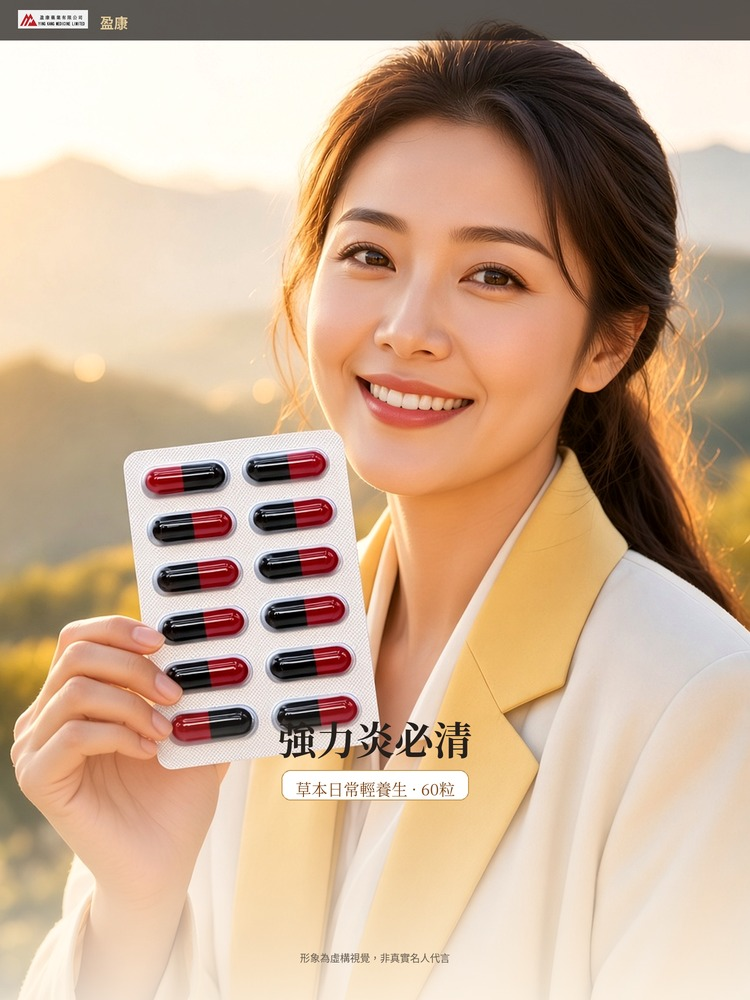
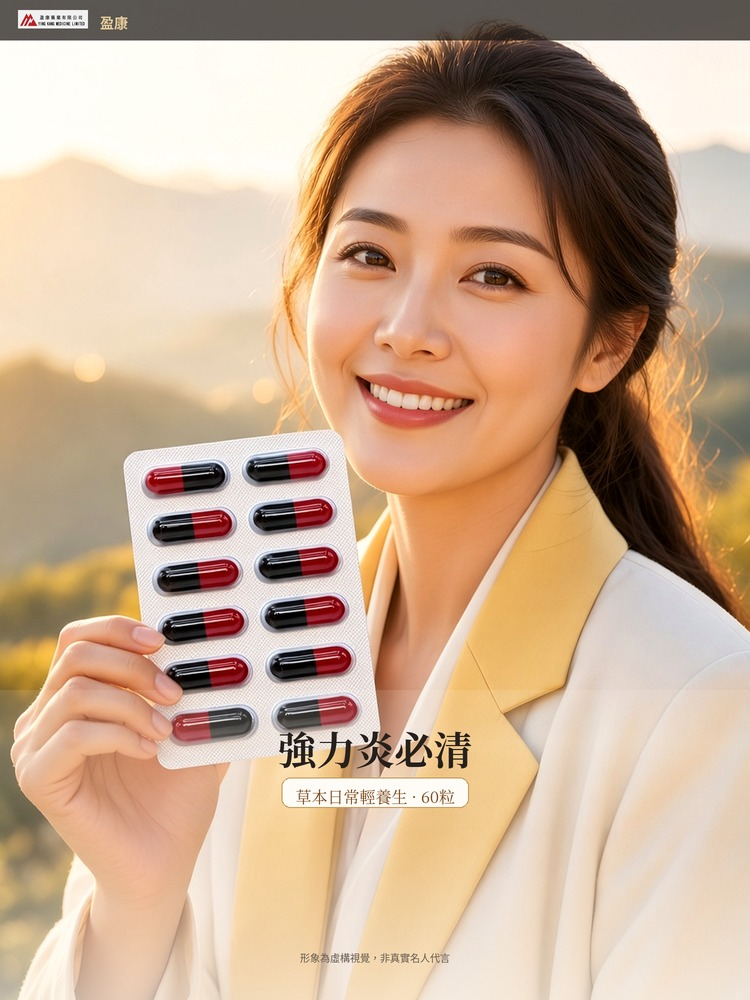
yanbiqing detail v4.1: align benefit photo chapters with copy

diff --git a/scripts/build_yanbiqing_detail_imgs.py b/scripts/build_yanbiqing_detail_imgs.py
@@ -1,5 +1,5 @@
 #!/usr/bin/env python3
-"""v4: Six-panel photo-first 詳圖 for 強力炎必清.
+"""v4.1: Six-panel photo-first 詳圖 for 強力炎必清.
 
 Customer critique fixes:
 - Full-bleed spokesperson-v4 hero (product in hand), minimal overlay
@@ -147,7 +147,19 @@ def panel_01_hero() -> Image.Image:
     im = ImageEnhance.Contrast(im).enhance(1.05)
     im = ImageEnhance.Color(im).enhance(1.04)
     im = top_bar(im, 80, 185)
-    im = bottom_scrim(im, 0.68, (255, 246, 232), 215)
+    # Soft feathered scrim — readable title zone without a hard PowerPoint plaque
+    im = bottom_scrim(im, 0.72, (255, 248, 238), 175)
+    # Extra very soft mid wash only behind title band
+    wash = Image.new("RGBA", (W, 2000), (0, 0, 0, 0))
+    px = wash.load()
+    for y in range(1380, 1680):
+        t = (y - 1380) / 300
+        # peak soft cream in the middle of the title band
+        a = int(70 * (1 - abs(t - 0.35) * 1.6))
+        a = max(0, min(90, a))
+        for x in range(W):
+            px[x, y] = (255, 248, 236, a)
+    im = Image.alpha_composite(im.convert("RGBA"), wash).convert("RGB")
     draw = ImageDraw.Draw(im)
 
     if LOGO.exists():
@@ -159,14 +171,14 @@ def panel_01_hero() -> Image.Image:
         draw = ImageDraw.Draw(im)
     draw.text((200, 24), "盈康", font=font(28, True, False), fill=GOLD_LT)
 
-    # ONE title + one short line
+    # ONE title + one short line — sit in soft zone
     f_title = font(78, True, True)
     title = "強力炎必清"
-    draw.text(((W - tw(draw, title, f_title)) // 2, 1420), title, font=f_title, fill=INK)
+    draw.text(((W - tw(draw, title, f_title)) // 2, 1440), title, font=f_title, fill=INK)
 
     f_sub = font(32, False, True)
     sub = "草本日常輕養生 · 60粒"
-    soft_chip(draw, sub, W // 2, 1540, f_sub, fill_bg=WHITE, fill_fg=ORANGE_DK)
+    soft_chip(draw, sub, W // 2, 1555, f_sub, fill_bg=(255, 252, 247), fill_fg=ORANGE_DK)
 
     f_ai = font(20, False, False)
     ai = "形象為虛構視覺，非真實名人代言"
@@ -175,10 +187,10 @@ def panel_01_hero() -> Image.Image:
 
 
 def panel_02_benefits() -> Image.Image:
-    """3 big short soft benefits on lifestyle photo cards — not a manual."""
+    """3 big short soft benefits on matching lifestyle photo cards — not a manual."""
     H = 1750
-    # chapter: lifestyle full-bleed darkened
-    bg = cover(AI / "lifestyle-desk.jpg", W, H, focus=(0.5, 0.45))
+    # chapter: cool-morning still darkened (matches 清熱 chapter)
+    bg = cover(AI / "lifestyle-qingre.jpg", W, H, focus=(0.45, 0.40))
     bg = ImageEnhance.Brightness(bg).enhance(0.55)
     bg = ImageEnhance.Color(bg).enhance(0.95)
     # leave photo visible at edges; parchment center less dominant
@@ -190,10 +202,11 @@ def panel_02_benefits() -> Image.Image:
     t = "日常想輕一點"
     draw.text(((W - tw(draw, t, f_h)) // 2, 60), t, font=f_h, fill=INK)
 
+    # v4.1: each photo chapter matches its headline (semantic + visual)
     cards = [
-        (AI / "lifestyle-desk.jpg", (0.3, 0.4), "日常清熱節奏", "寫進作息，先了解再說"),
-        (BUB / "echinacea.jpg", (0.5, 0.45), "換季想舒適", "冷暖交替，留意自己"),
-        (BUB / "melissa.jpg", (0.5, 0.5), "應酬後想輕一點", "外賣應酬多的日子"),
+        (AI / "lifestyle-qingre.jpg", (0.35, 0.40), "日常清熱節奏", "寫進作息，先了解再說"),
+        (AI / "lifestyle-season.jpg", (0.42, 0.35), "換季想舒適", "冷暖交替，留意自己"),
+        (AI / "lifestyle-dining.jpg", (0.45, 0.45), "應酬後想輕一點", "外賣應酬多的日子"),
     ]
     # 3 vertical big cards spanning width with huge photo
     y = 180
@@ -472,7 +485,15 @@ def export(im: Image.Image, stem: str) -> Image.Image:
 
 def main():
     OUT.mkdir(parents=True, exist_ok=True)
-    for req in ("spokesperson-v4.jpg", "herbs-hero.jpg", "blister-macro.jpg", "herbs-grid.jpg", "lifestyle-desk.jpg"):
+    for req in (
+        "spokesperson-v4.jpg",
+        "herbs-hero.jpg",
+        "blister-macro.jpg",
+        "herbs-grid.jpg",
+        "lifestyle-qingre.jpg",
+        "lifestyle-season.jpg",
+        "lifestyle-dining.jpg",
+    ):
         assert (AI / req).exists(), req
 
     specs = [
